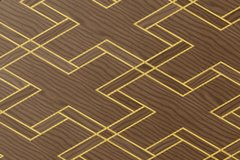
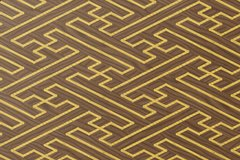
寄木模様帳: 紗綾型を正確な柄に作り直す
いただいた柄の画像の菱形を升目に戻し、1周期50升の線の有無を読み取って、その表から描くようにした。
帯と隙間を同じ幅にし、境目だけに明るい木の細線をはめ込む(Canvas・SVG とも)。

Claude-Session: https://claude.ai/code/session_01HoegnCingHPSwiqMrRLnYn

diff --git a/public/yosegi/js/patterns.js b/public/yosegi/js/patterns.js
@@ -96,42 +96,98 @@
     },
   };
 
-  /* 卍を格子 (4,2)・(-2,4) に並べると腕と鉤がつながって紗綾型になる。線は間隔2の升目の上に太さ 2h で引く。
-     卍の中心は独立した小さな升にし、線分の端の角はどちらか一方が受け持つ(同じところを二度塗らない)。
-     最後に升目を ±30 度の菱形に押しつぶし(菱万字)、木片の輪郭に明るい木の細線(inlay)をはめ込む */
-  var SC = Math.cos(Math.PI / 6),
-    SS = Math.sin(Math.PI / 6);
-  function hishi(g, x, y) {
-    return [g * SC * (x + y), g * SS * (x - y)];
-  }
+  /* 紗綾型(菱万字)。帯と隙間が同じ幅の升目で、境目だけに明るい木の細線(inlay)をはめ込む。
+     升目の1周期は (5,5)・(5,-5) の50升で、表の各升は [u, v, 右辺に線, 下辺に線, 横向きの帯] (いただいた正確な柄の画像から読み取った)。
+     最後に升目の横軸を (1, 0.5)、縦軸を (1, -0.5) の向きに押しつぶして菱形にする。木目は同じ向きの帯で1枚の板がつながるように揃える */
   P.sayagata = {
-    bg: { w: 'd', a: 30 },
-    inlay: { w: 'y', k: 0.07 },
+    /* 升の境目の塗り残し(アンチエイリアスの隙間)を同じ木で埋める */
+    bg: { w: 'd', a: 26.565 },
+    inlay: { w: 'y', k: 0.1 },
+    cells: [
+      [0, 0, 0, 1, 1],
+      [1, -1, 0, 1, 1],
+      [2, -2, 1, 1, 1],
+      [3, -3, 1, 0, 1],
+      [4, -4, 1, 0, 0],
+      [1, 0, 0, 0, 1],
+      [2, -1, 0, 1, 1],
+      [3, -2, 1, 0, 0],
+      [4, -3, 1, 0, 0],
+      [5, -4, 1, 0, 0],
+      [1, 1, 1, 1, 0],
+      [2, 0, 1, 1, 1],
+      [3, -1, 1, 0, 1],
+      [4, -2, 1, 0, 0],
+      [5, -3, 0, 0, 1],
+      [2, 1, 0, 1, 1],
+      [3, 0, 1, 0, 0],
+      [4, -1, 1, 0, 0],
+      [5, -2, 1, 0, 0],
+      [6, -3, 1, 1, 1],
+      [2, 2, 1, 0, 0],
+      [3, 1, 1, 0, 1],
+      [4, 0, 1, 0, 0],
+      [5, -1, 0, 0, 1],
+      [6, -2, 0, 1, 1],
+      [3, 2, 1, 1, 0],
+      [4, 1, 1, 0, 0],
+      [5, 0, 1, 0, 0],
+      [6, -1, 0, 1, 1],
+      [7, -2, 0, 1, 1],
+      [3, 3, 0, 1, 1],
+      [4, 2, 1, 0, 0],
+      [5, 1, 0, 0, 1],
+      [6, 0, 0, 1, 1],
+      [7, -1, 0, 1, 1],
+      [4, 3, 0, 1, 1],
+      [5, 2, 1, 1, 0],
+      [6, 1, 1, 1, 1],
+      [7, 0, 0, 0, 1],
+      [8, -1, 0, 1, 1],
+      [4, 4, 0, 1, 1],
+      [5, 3, 0, 1, 1],
+      [6, 2, 1, 0, 0],
+      [7, 1, 1, 1, 0],
+      [8, 0, 0, 1, 1],
+      [5, 4, 0, 1, 1],
+      [6, 3, 0, 1, 1],
+      [7, 2, 0, 1, 1],
+      [8, 1, 1, 0, 0],
+      [9, 0, 0, 0, 1],
+    ],
+    hishi: function (g, u, v) {
+      return [g * (u + v), (g * (u - v)) / 2];
+    },
     lattice: function (s) {
-      var g = s * 1.0;
-      return { a: hishi(g, 4, 2), b: hishi(g, -2, 4) };
+      var g = s * 0.5;
+      return { a: this.hishi(g, 5, 5), b: this.hishi(g, 5, -5) };
     },
     cell: function (i, j, s) {
-      var g = s * 1.0,
-        h = 0.27;
-      function R(x0, y0, x1, y1, a) {
-        return {
-          pts: rect(x0, y0, x1, y1).map(function (q) {
-            return hishi(g, q[0], q[1]);
-          }),
-          w: 'd',
-          a: a,
-        };
+      var self = this,
+        g = s * 0.5,
+        SA = (Math.atan(0.5) * 180) / Math.PI,
+        L = this.lattice(s),
+        org = [-(i * L.a[0] + j * L.b[0]), -(i * L.a[1] + j * L.b[1])],
+        out = [];
+      function H(u, v) {
+        return self.hishi(g, u, v);
       }
-      return [
-        R(-h, -h, h, h, 30),
-        R(h, -h, 2 + h, h, 30),
-        R(2 - h, h, 2 + h, 2 - h, -30),
-        R(2 - h, 2 - h, 4 - h, 2 + h, 30),
-        R(-h, h, h, 2 + h, -30),
-        R(-2 + h, 2 - h, -h, 2 + h, 30),
-        R(-2 - h, 2 - h, -2 + h, 4 - h, -30),
-      ];
+      this.cells.forEach(function (c) {
+        var u = c[0],
+          v = c[1];
+        out.push({
+          pts: [H(u, v), H(u + 1, v), H(u + 1, v + 1), H(u, v + 1)],
+          w: 'd',
+          a: c[4] ? SA : -SA,
+          seam: false,
+          seed: c[4] ? 1 : 2,
+          global: true,
+          org: org,
+        });
+        if (c[2]) out.push({ edge: [H(u + 1, v), H(u + 1, v + 1)] });
+        if (c[3]) out.push({ edge: [H(u, v + 1), H(u + 1, v + 1)] });
+      });
+      return out;
     },
   };
 

diff --git a/public/yosegi/js/svg.js b/public/yosegi/js/svg.js
@@ -117,6 +117,19 @@
     var P = window.YosegiPatterns[id],
       inlay = [];
     var rot = Lay.each(id, size, W, H, function (p, ox, oy, rnd) {
+      if (p.edge) {
+        inlay.push(
+          'M' +
+            f(p.edge[0][0] + ox) +
+            ' ' +
+            f(p.edge[0][1] + oy) +
+            'L' +
+            f(p.edge[1][0] + ox) +
+            ' ' +
+            f(p.edge[1][1] + oy),
+        );
+        return;
+      }
       var pts = p.clip ? Lay.clipPoly(p.pts, p.clip) : p.pts;
       if (pts.length < 3) return;
       var d =
@@ -142,7 +155,7 @@
     var inlayG = inlay.length
       ? '<g fill="none" stroke="' +
         patternOf(P.inlay.w, 30, 0) +
-        '" stroke-width="' +
+        '" stroke-linecap="square" stroke-width="' +
         f(size * P.inlay.k) +
         '"><path d="' +
         inlay.join('') +

diff --git a/public/yosegi/js/app.js b/public/yosegi/js/app.js
@@ -47,6 +47,13 @@
       return fills[role];
     }
     function piece(p, ox, oy, rnd) {
+      if (p.edge) {
+        var lp = new Path2D();
+        lp.moveTo(p.edge[0][0], p.edge[0][1]);
+        lp.lineTo(p.edge[1][0], p.edge[1][1]);
+        inlays.push({ path: lp, ox: ox, oy: oy });
+        return;
+      }
       var path = pathOf(p.pts),
         c = p.org || YosegiLayout.centroid(p.pts),
         f = fillOf(p.w);
@@ -86,7 +93,7 @@
       lf.setTransform(new DOMMatrix().rotate(30).scale(ts));
       ctx.strokeStyle = lf;
       ctx.lineWidth = size * P.inlay.k;
-      ctx.lineJoin = 'miter';
+      ctx.lineCap = 'square';
       inlays.forEach(function (q) {
         ctx.save();
         ctx.translate(q.ox, q.oy);

diff --git a/public/yosegi/js/layout.js b/public/yosegi/js/layout.js
@@ -59,7 +59,12 @@
           oy = i * L.a[1] + j * L.b[1];
         if (Math.abs(ox) > R + size * 3 || Math.abs(oy) > R + size * 3) continue;
         P.cell(i, j, size).forEach(function (p, k) {
-          cb(p, ox, oy, hash(i, j, p.seed !== undefined ? 100 + p.seed : k));
+          cb(
+            p,
+            ox,
+            oy,
+            p.global ? hash(0, 0, 100 + p.seed) : hash(i, j, p.seed !== undefined ? 100 + p.seed : k),
+          );
         });
       }
     return P.rot || 0;
